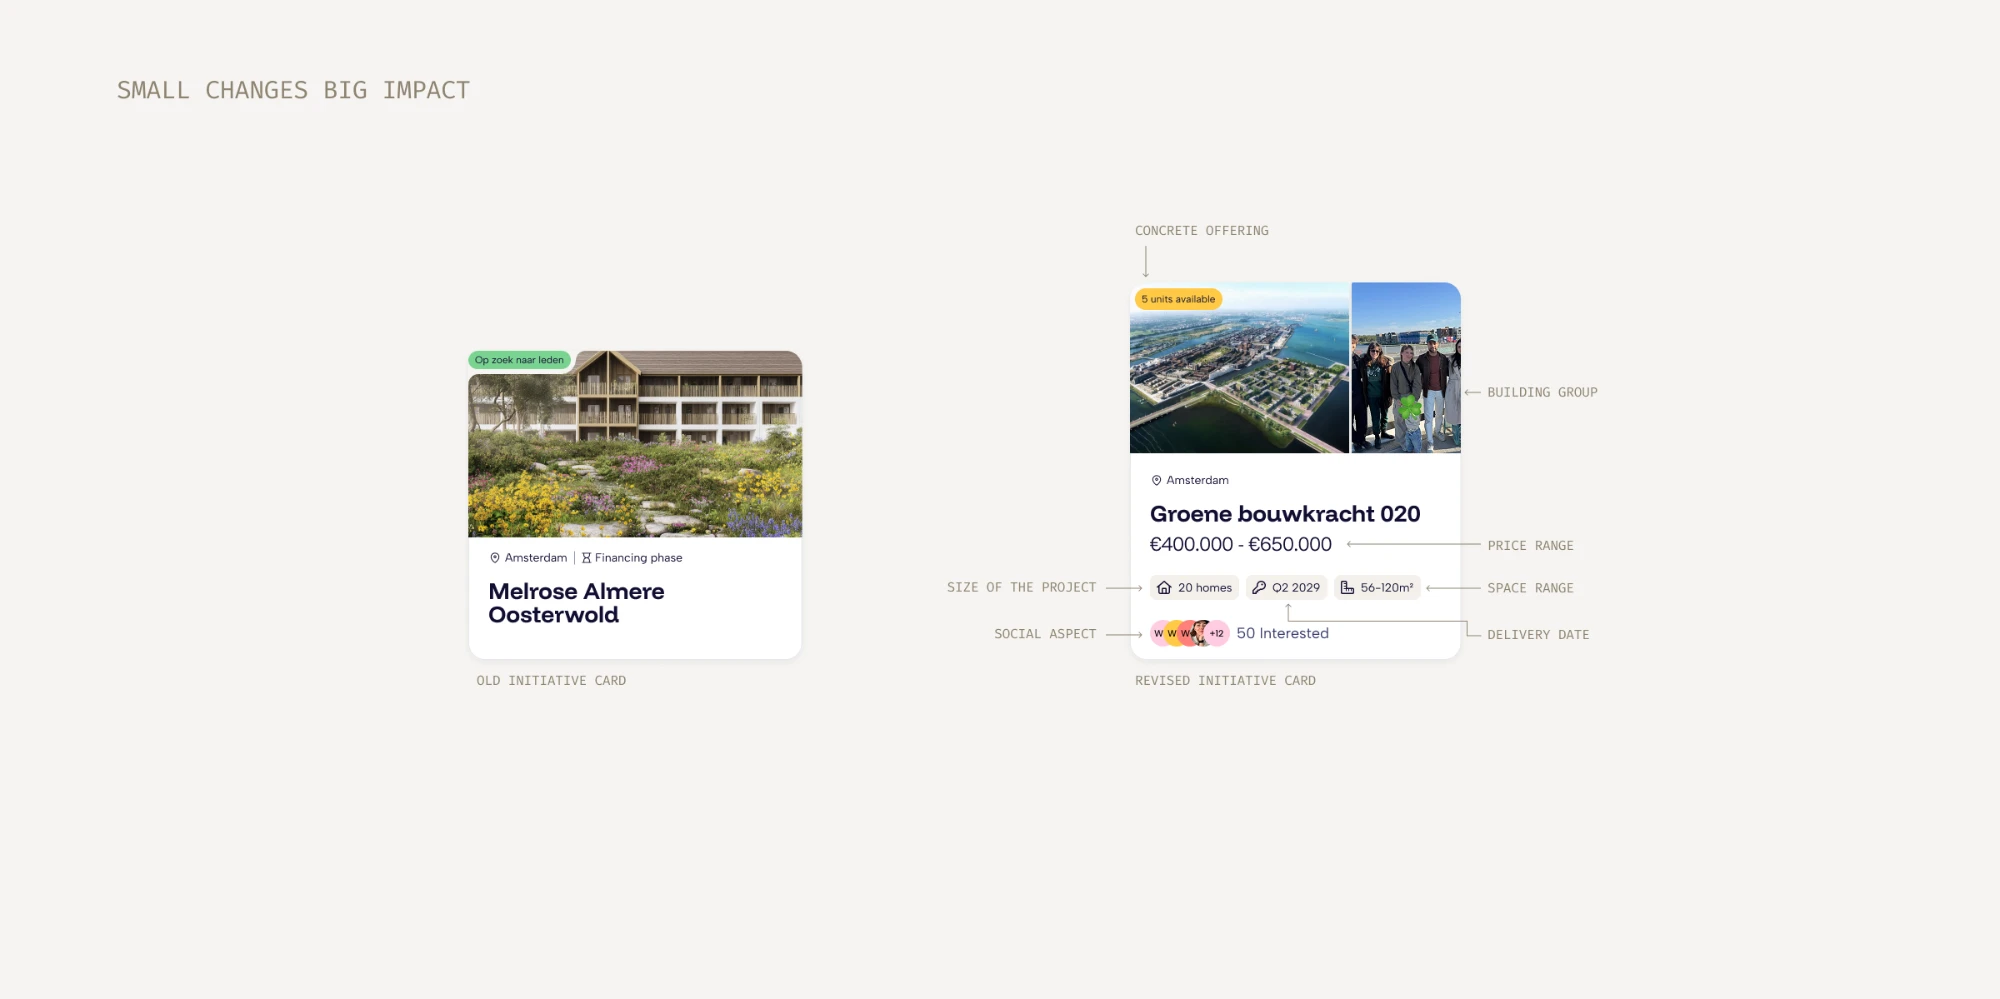
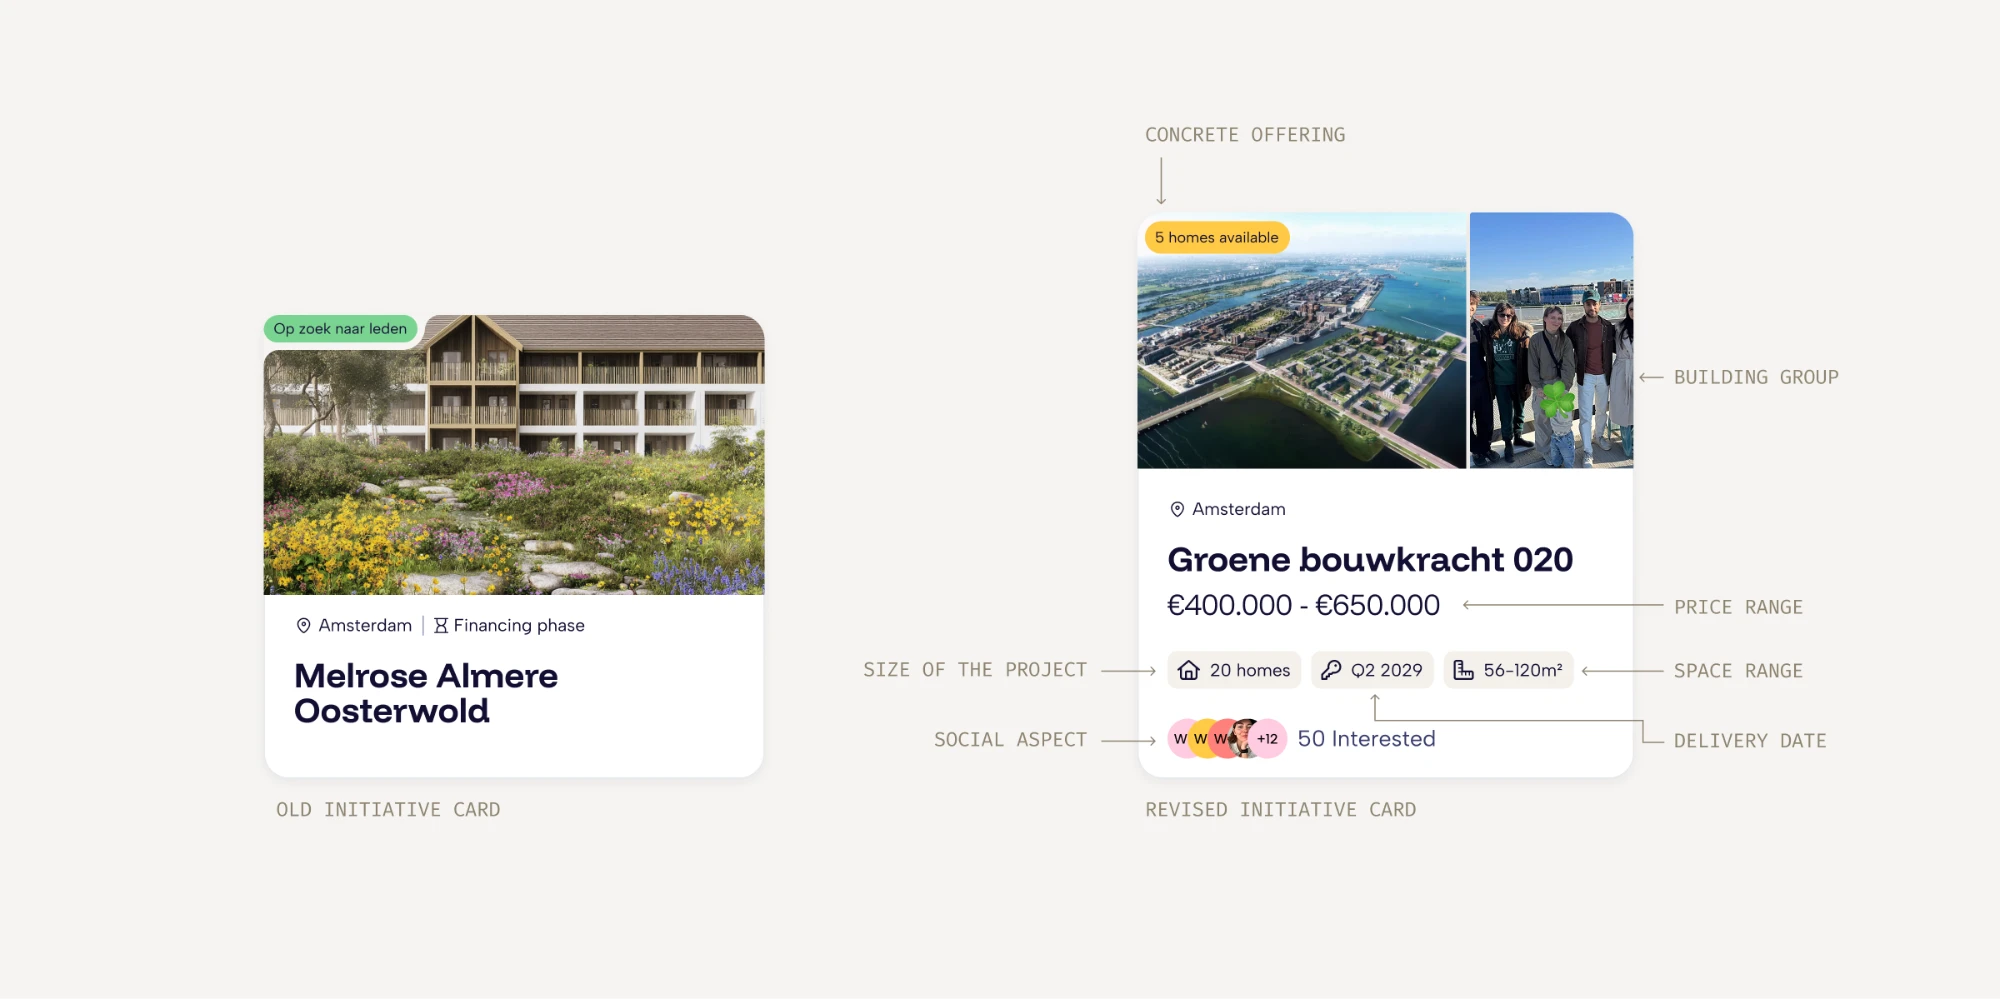
Use the larger card anatomy export in home listings
Claude-Session: https://claude.ai/code/session_01PnFuSzZFwokCBsftjY3Zgh

diff --git a/work/crowdbuilding-unit-listings.html b/work/crowdbuilding-unit-listings.html
@@ -91,7 +91,7 @@
     </figure>
 
     <figure class="section figure grid">
-      <div class="frame"><img src="../assets/img/home-listings-card-anatomy.webp" width="2000" height="999" loading="lazy" decoding="async" alt="Small changes, big impact. Left, the old initiative card: a ‘looking for members’ badge, a render, location, financing phase and name. Right, the revised initiative card, annotated: a ‘5 units available’ badge for the concrete offering, a photo of the building group next to the render, location and name, the price range, the number of homes as the size of the project, the delivery date, the space range in square metres, and avatars of people interested as the social aspect."></div>
+      <div class="frame"><img src="../assets/img/home-listings-card-anatomy.webp" width="2000" height="999" loading="lazy" decoding="async" alt="Left, the old initiative card: a ‘looking for members’ badge, a render, location, financing phase and name. Right, the revised initiative card, annotated: a ‘5 homes available’ badge for the concrete offering, a photo of the building group next to the render, location and name, the price range, the number of homes as the size of the project, the delivery date, the space range in square metres, and avatars of people interested as the social aspect."></div>
       <figcaption>Small changes, big impact. The revised card keeps the initiative but leads with facts: how many homes are available, the price and space range, the delivery date and the size of the project. A photo of the building group and the people interested keep the human side visible.</figcaption>
     </figure>
 
